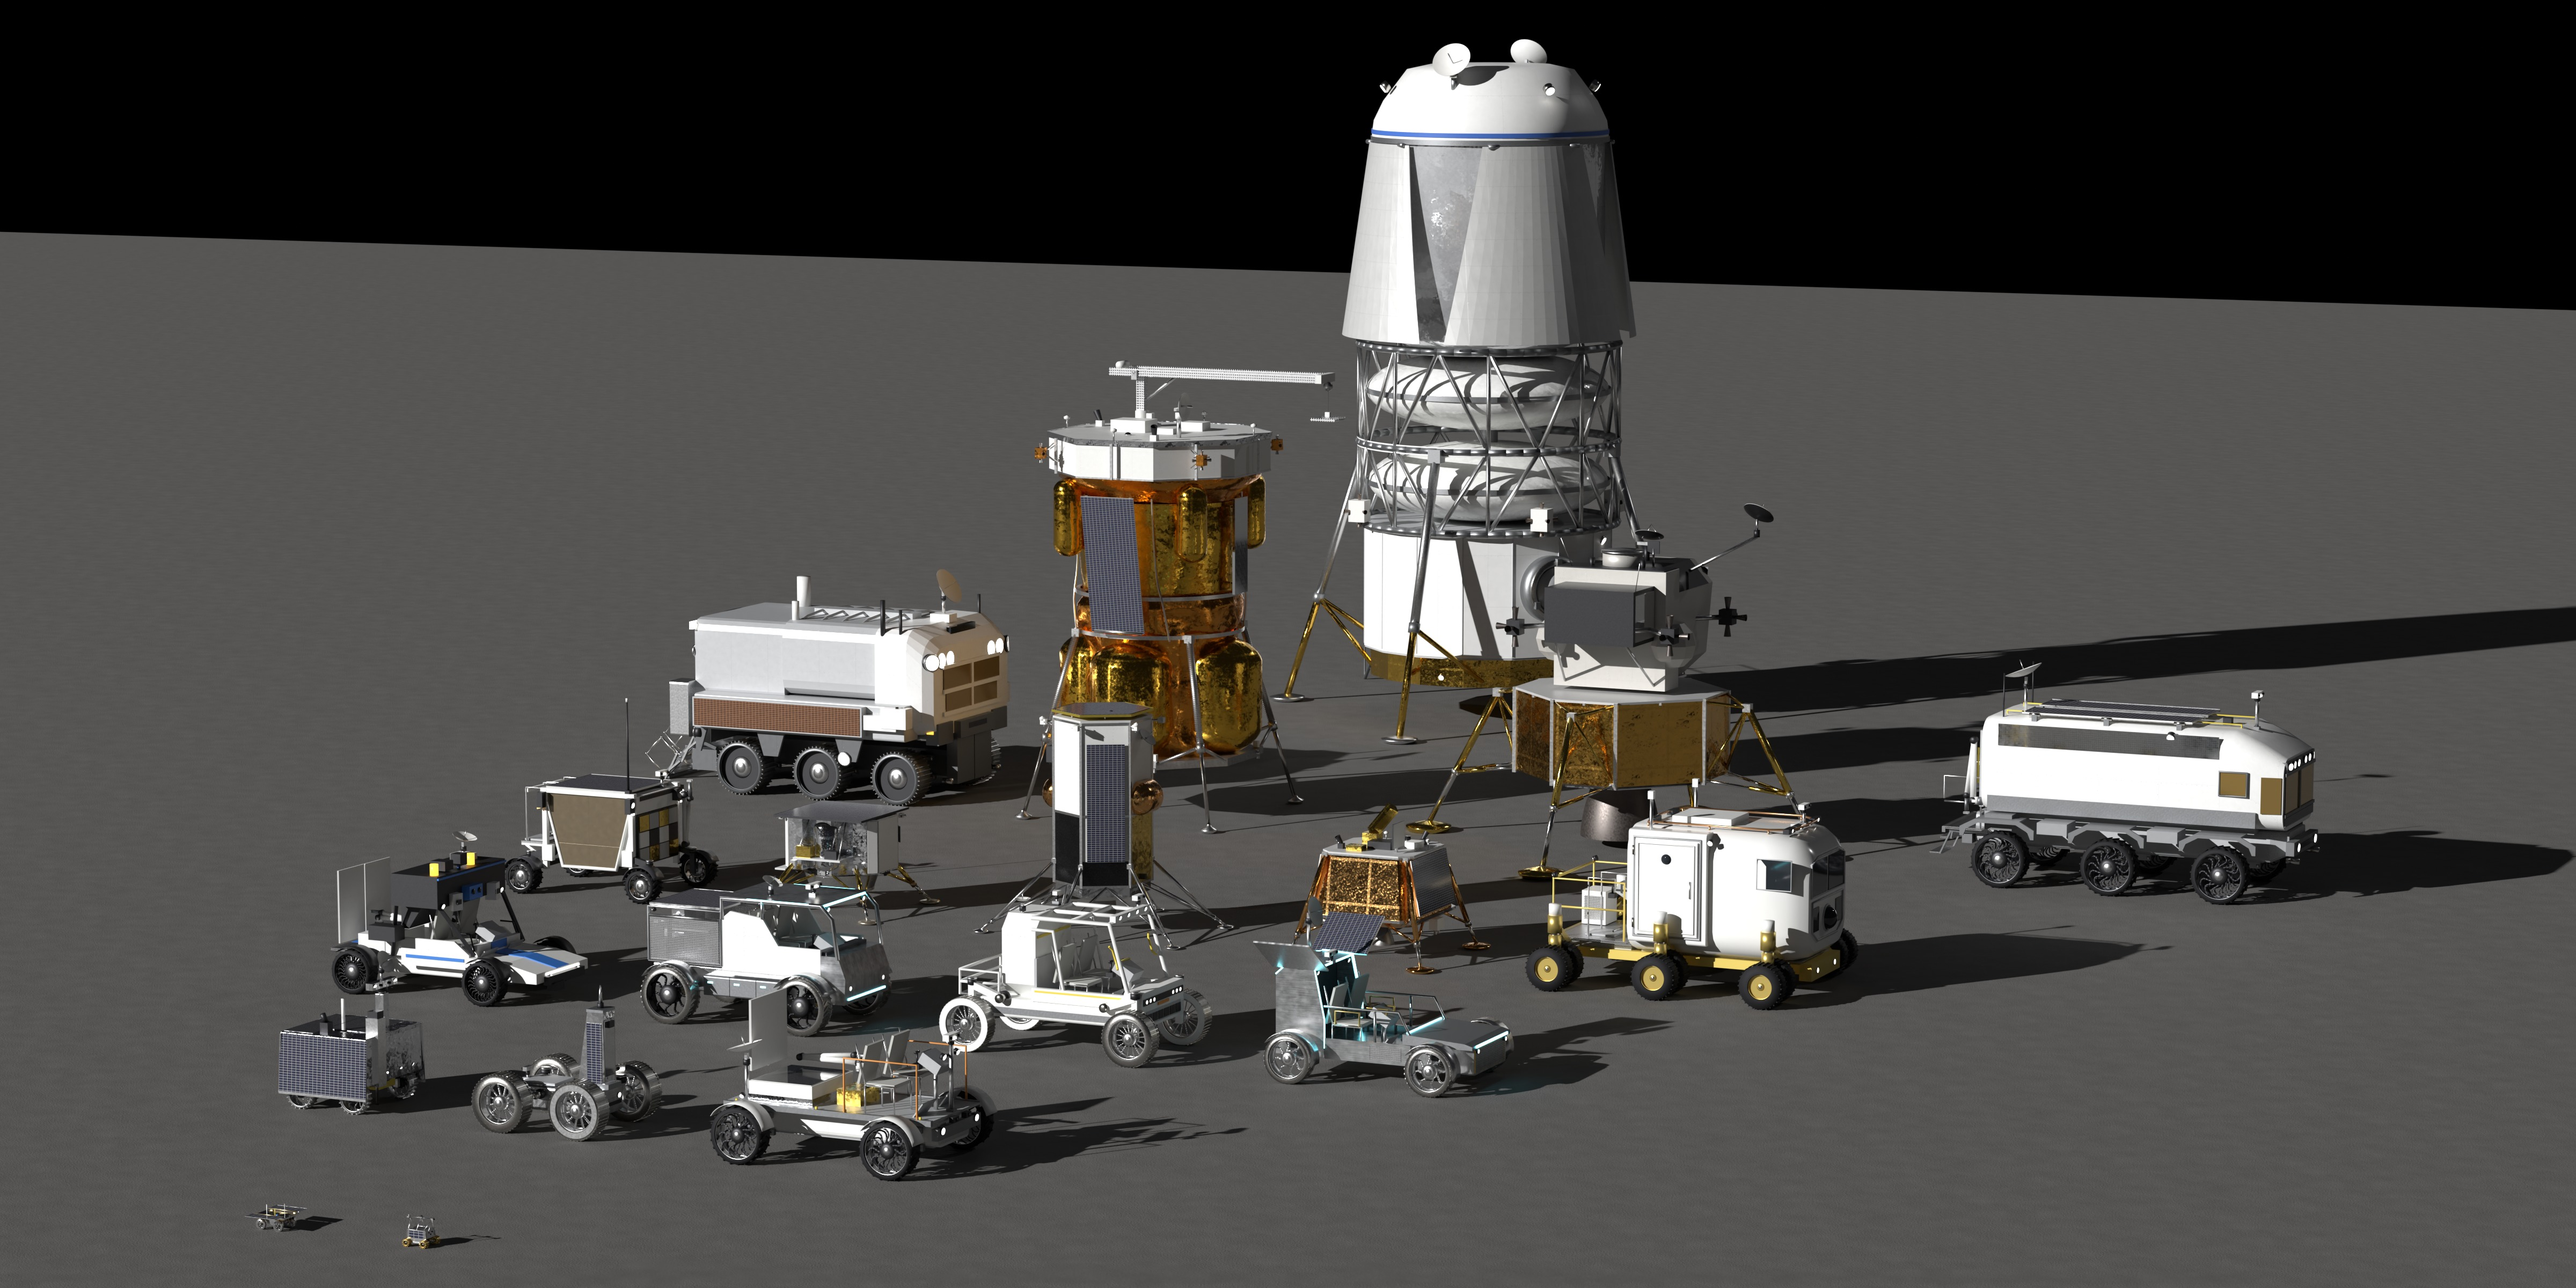
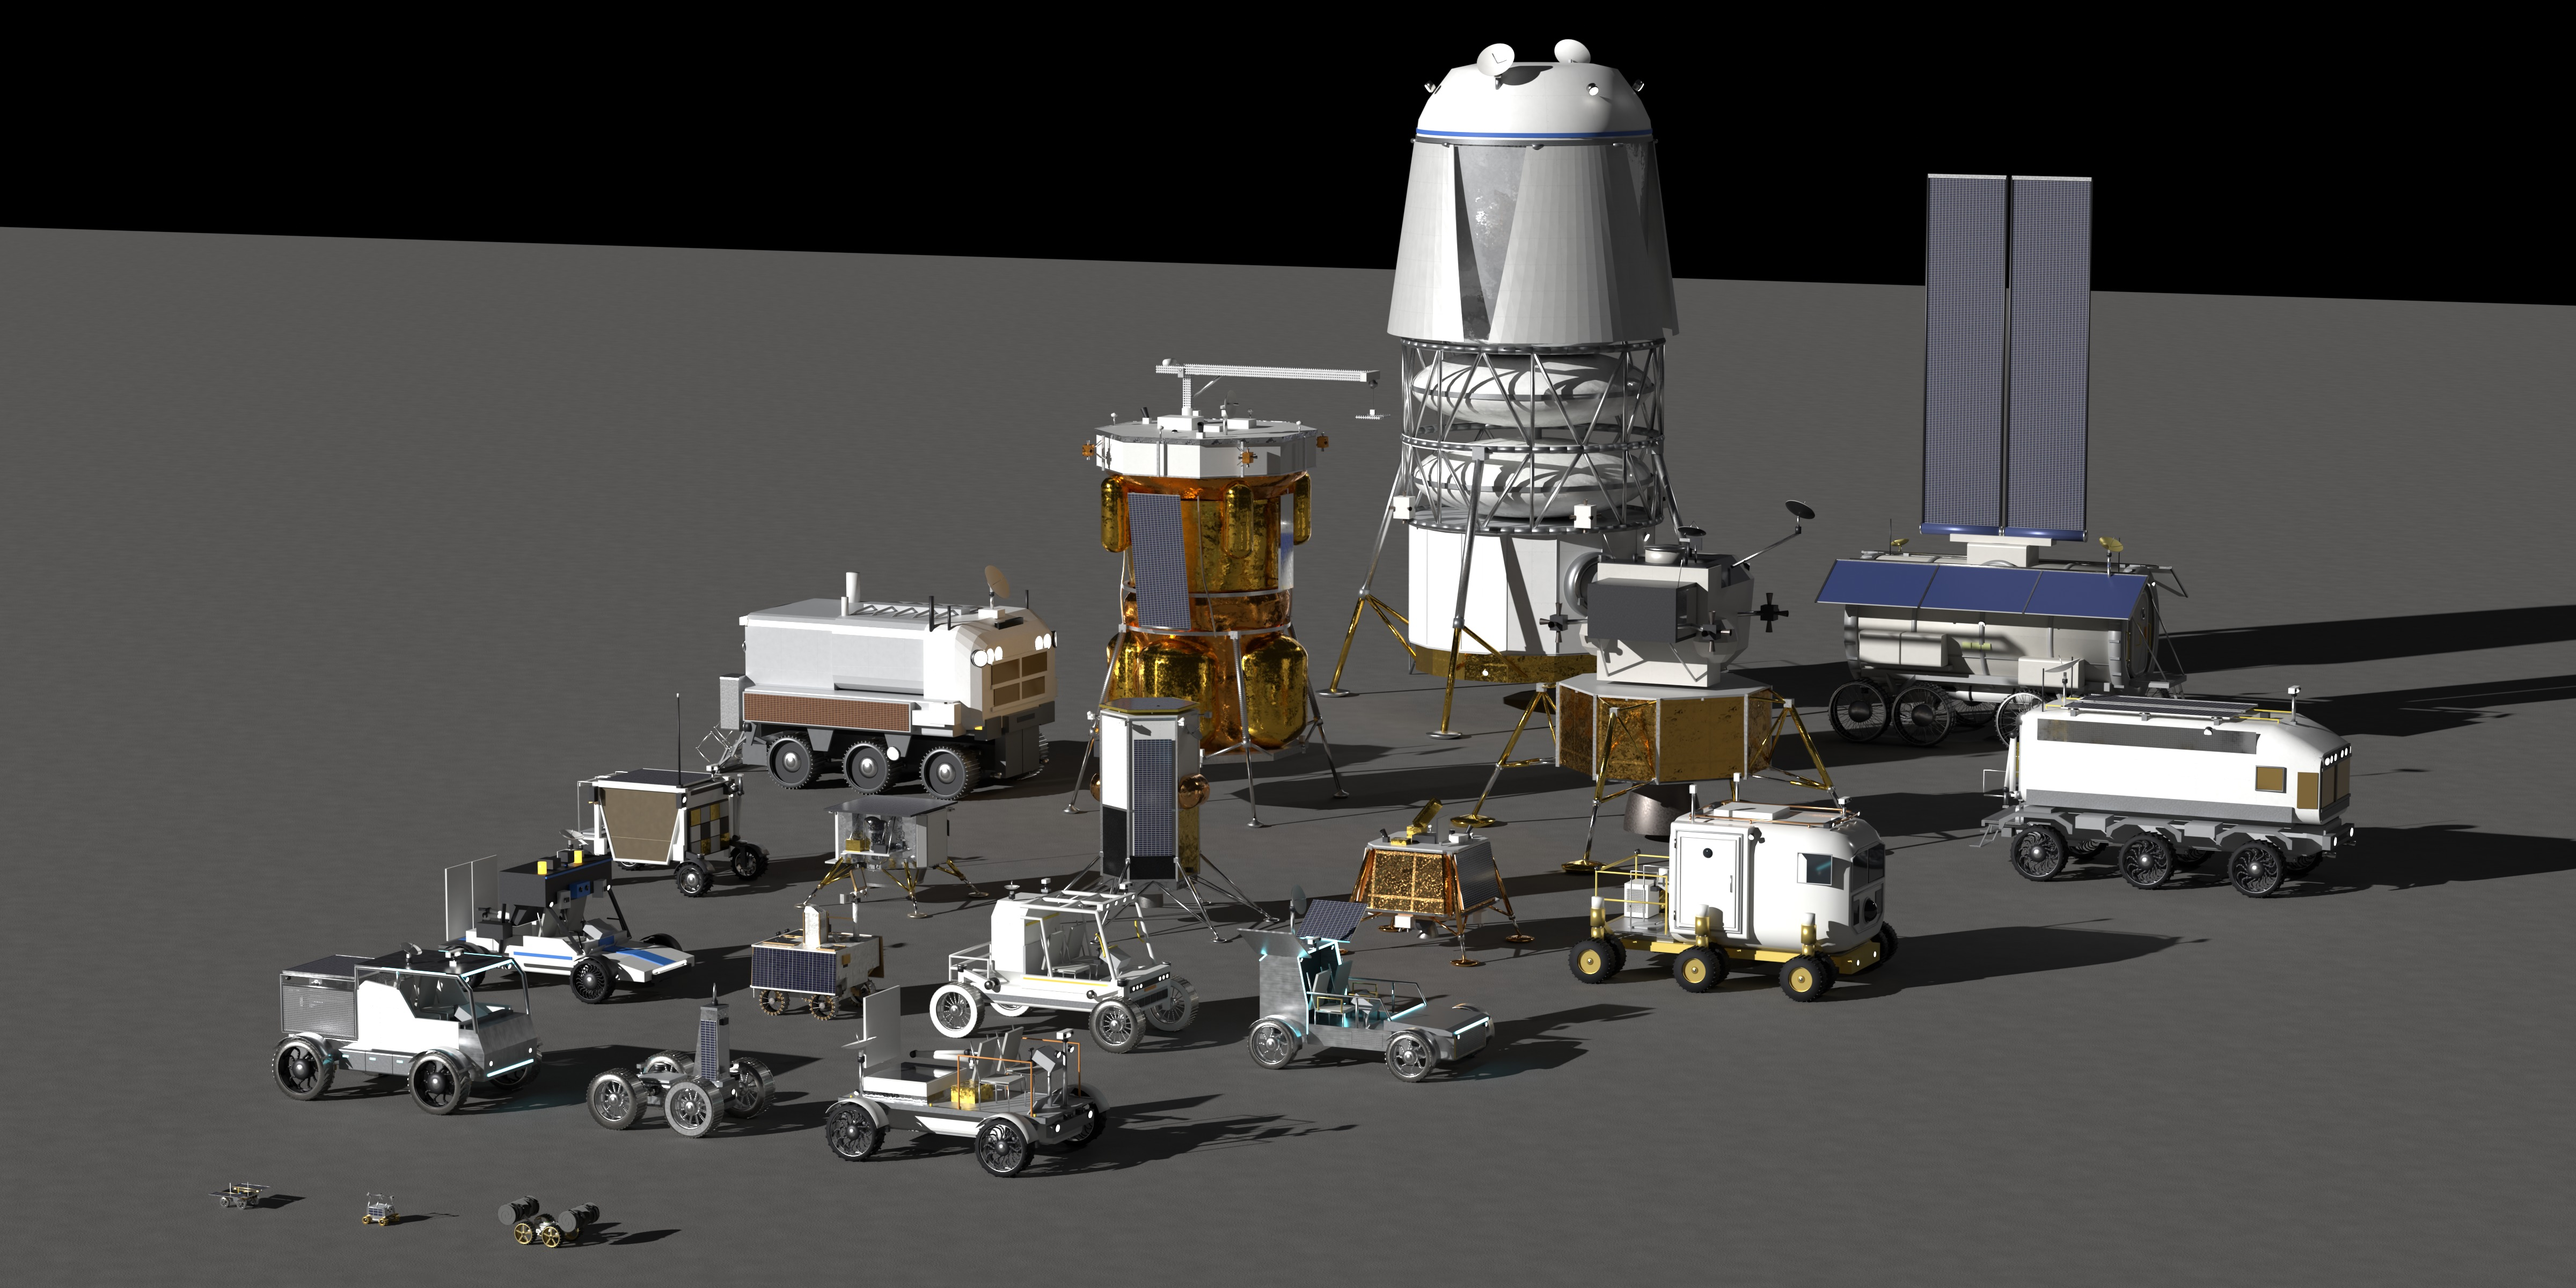
Add MPH, IPEx and rebuilt VIPER to hero shot and web viewer

Changed region(s): [[0.0938, 0.0312, 1.0, 0.9375], [0.0938, 0.9062, 0.25, 0.9688], [0.0, 0.1562, 0.125, 0.1875]]

diff --git a/web/src/main.js b/web/src/main.js
@@ -205,7 +205,7 @@ function placeHuman() {
 function buildGui() {
   gui = new GUI({ title: `Lunar Surface Mobility Assets v${state.manifest.version}`, width: 330 });
   const options = { [OVERVIEW]: OVERVIEW };
-  for (const kind of ["lander", "rover"]) {
+  for (const kind of ["lander", "habitat", "rover"]) {
     for (const a of hosts().filter((x) => x.kind === kind).sort((x, y) => y.dims.height - x.dims.height)) {
       options[`${a.title} (${fmt.m(a.dims.height)})`] = a.id;
     }

diff --git a/scripts/hero.py b/scripts/hero.py
@@ -85,9 +85,9 @@ def main():
     R.setup_render(int(assetcfg.arg(a, "--samples", "256")), res)
     R.lunar(assetcfg.build_dir(hosts()[0][0], "textures"))
     bpy.context.scene.cycles.use_auto_tile = True
-    bpy.context.scene.cycles.tile_size = 1024
+    bpy.context.scene.cycles.tile_size = int(assetcfg.arg(a, "--tile", "1024"))
     bpy.context.scene.render.use_simplify = True
-    bpy.context.scene.cycles.texture_limit_render = "2048"
+    bpy.context.scene.cycles.texture_limit_render = assetcfg.arg(a, "--tex-limit", "2048")
     bpy.context.scene.cycles.denoiser = "OPTIX"
     bpy.context.scene.cycles.denoising_use_gpu = True
     az, el = math.radians(AZIMUTH), math.radians(ELEVATION)

diff --git a/scripts/web_export.py b/scripts/web_export.py
@@ -199,7 +199,7 @@ def main():
         old = {e["id"]: e for e in json.load(open(mpath))["assets"]}
     for asset in host_ids + sorted(deps):
         cfg = assetcfg.load(asset)
-        kind = "attachment" if asset in deps else ("lander" if cfg.ASSET_PATH.endswith("/lander") else "rover")
+        kind = "attachment" if asset in deps else next((k for k in ("lander", "habitat") if cfg.ASSET_PATH.endswith(f"/{k}")), "rover")
         if only and asset not in only and asset in old:
             e = old[asset]
             files += [os.path.join(OUT, e["files"][k]) for k in ("full", "preview") if k in e["files"]]

diff --git a/scripts/layout.py b/scripts/layout.py
@@ -6,7 +6,7 @@ ROWS = [
     None,
     ["*", "peregrine", "nova_c", "blue_ghost", "*"],
     ["lunar_cruiser", "mk1", "apollo_lm", "pr_concept"],
-    ["mk2"],
+    ["mk2", "mph"],
 ]
 ALIGN = {"mk2": "mk1"}
 

diff --git a/README.md b/README.md
@@ -189,8 +189,8 @@ The ASI / Thales Alenia Space Multi-Purpose Habitation module, likely the first 
 
 `web/` is a static, interactive 3D viewer of every asset, to scale on the lunar surface. It needs no build step and has no CDN calls: three.js r170 and lil-gui are vendored under `web/vendor/three/` (MIT), and it runs from any static file server, offline included.
 
-- **Fast first load.** It loads the simple version of every asset (9 MB for all of them) in the same line-up as the hero render, with a 1.8 m human for scale.
-- **Detailed models.** Once the previews are up, every web-optimised model loads in the background, smallest first, and replaces its preview (67 MB in total; 0.8–5.9 MB each: the full glTF with textures resized to 1024 px and re-encoded as WebP via `EXT_texture_webp`). Clicking a vehicle, choosing it in the panel, or opening `#<asset id>` moves it to the front of the queue and flies the camera to it. Add `?lite` to the URL to load detailed models only on demand.
+- **Fast first load.** It loads the simple version of every asset (11 MB for all of them) in the same line-up as the hero render, with a 1.8 m human for scale.
+- **Detailed models.** Once the previews are up, every web-optimised model loads in the background, smallest first, and replaces its preview (85 MB in total; 0.8–5.9 MB each: the full glTF with textures resized to 1024 px and re-encoded as WebP via `EXT_texture_webp`). Clicking a vehicle, choosing it in the panel, or opening `#<asset id>` moves it to the front of the queue and flies the camera to it. Add `?lite` to the URL to load detailed models only on demand.
 - **Specs.** Height, footprint, mass states, main engines, thruster counts, joints, plus links to the source files and release downloads.
 - **Moving parts.** A slider for every controllable joint, grouped by role: engine gimbals, steering, antennas, cameras, robotic arms, cranes, hatches, latches, stairs, solar arrays and deployables. Wheels have a spin control, and Animate sweeps every joint through its range. Joint axes and limits come from the USD physics layer. Passive joints (landing gear, suspension and loop-closed linkages) are left to simulation.
 - **Attachments.** These can be toggled per host, for example the MK1 offloader crane.
